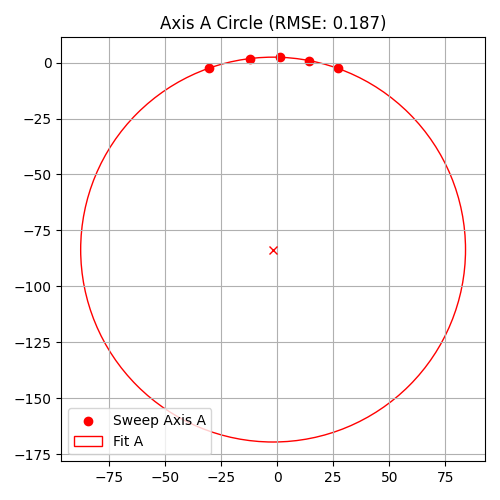
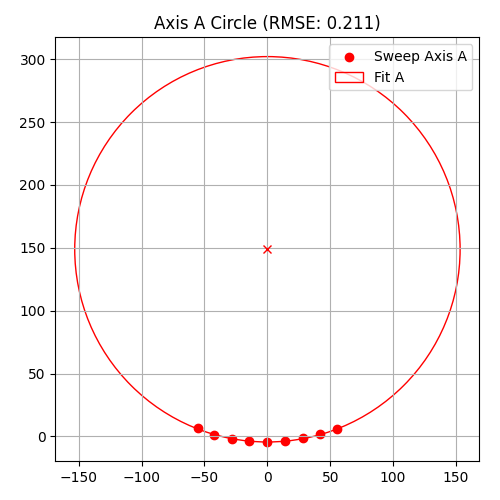
modified:   calibration/fit_left_wrist_pitch.png 	modified:   calibration/fit_right_wrist_pitch.png 	modified:   core/marker_detection.py

diff --git a/core/marker_detection.py b/core/marker_detection.py
@@ -9,7 +9,7 @@ import threading
 import os, yaml
 
 #debugging flag : 실사용시 모두 false여야함
-imshow_when_detect = False
+imshow_when_detect = True
 check_cube_marker_data = False
 tcpip_send = False
 use_calib_int = False # 세밀하게 보정된 파일(camera_intrinsics.yaml)을 사용할지 여부